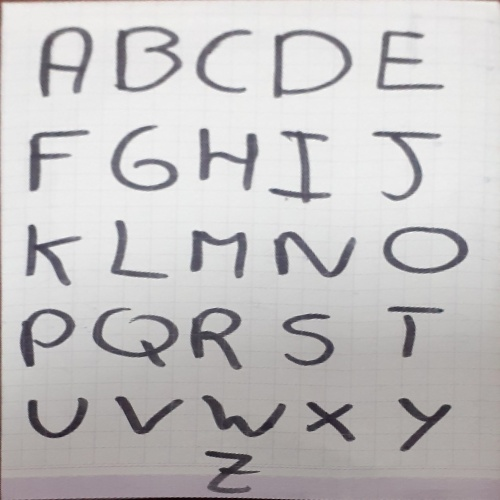
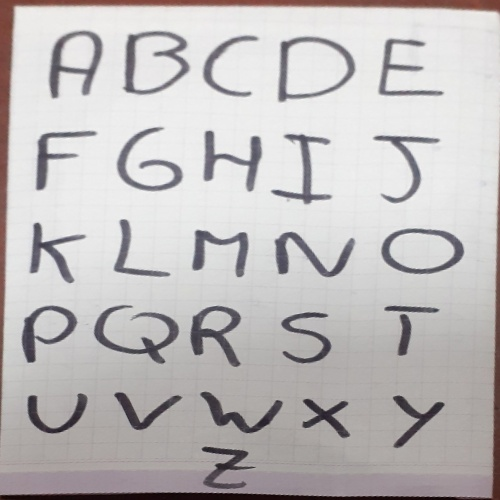
mejora

diff --git a/examen2/Pruebas/proceso completo/enderezar_imagen.py b/examen2/Pruebas/proceso completo/enderezar_imagen.py
@@ -103,12 +103,12 @@ pts2 = np.float32([[cols,rows],[cols,0],[0,0],[0,rows]])
 
 M = cv.getPerspectiveTransform(pts1,pts2)
 dst = cv.warpPerspective(img,M,(cols,rows))
-"""
+
 plt.subplot(121),plt.imshow(img),plt.title('Input')
 plt.plot(pts1[:,0],pts1[:,1],'o',markersize=5)
 plt.subplot(122),plt.imshow(dst),plt.title('Output')
 plt.plot(pts2[:,0],pts2[:,1],'o',markersize=5)
 plt.show()
-"""
+
 cv.imwrite("out.jpg",dst)
 
